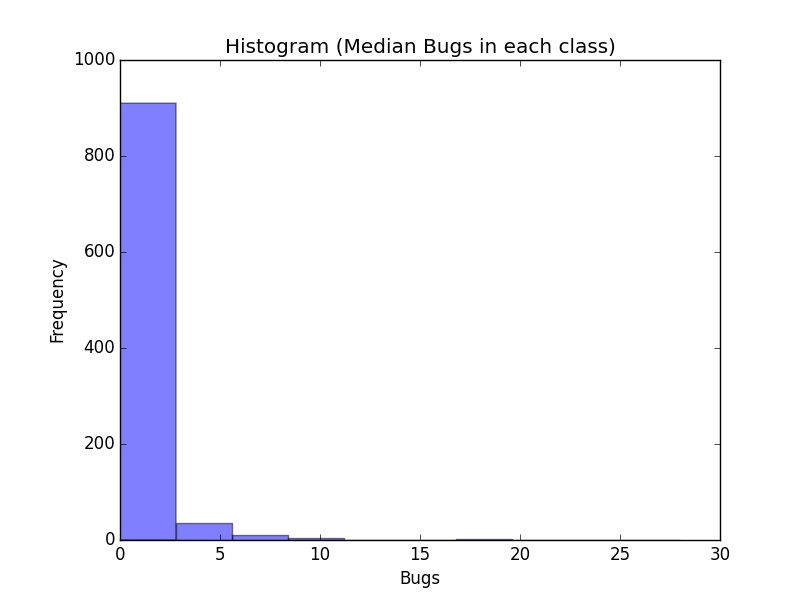
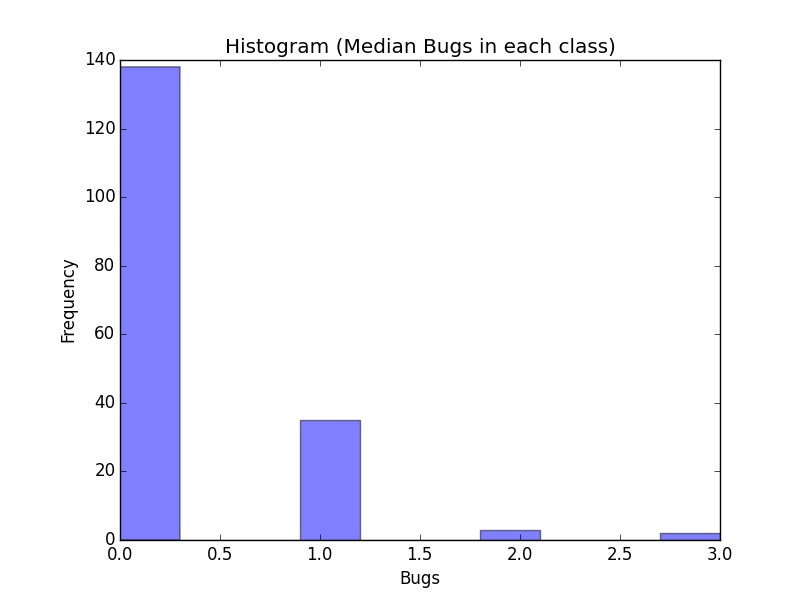
Update

diff --git a/Defects/Planning.py b/Defects/Planning.py
@@ -3,9 +3,11 @@ from __future__ import print_function
 from pdb import set_trace
 from random import uniform, randint
 
-from _imports import *
+from hist import *
+import sk
 from sklearn.ensemble import RandomForestClassifier
 
+from _imports import *
 from contrastset import *
 from dectree import *
 import makeAmodel as mam
@@ -13,29 +15,33 @@ from methods1 import *
 import numpy as np
 import pandas as pd
 
+
 #===============================================================================
 # PLANNING PHASE: 1. Decision Trees, 2. Contrast Sets
 #===============================================================================
-def _treatments(train_DF = None, test_df = None, verbose = True):
+def _treatments(train = None, test = None, verbose = True):
 
-  if not train_DF or test_df:
-    dir = './Data'
-
-    train, test = explore(dir)
-
-    # Training data
-    train_DF = createTbl(train[1])
-
-    # Testing data
-    test_df = createTbl(test[1])
+#   if not train_DF or test_df:
+#     dir = './Data'
+#
+#     train, test = explore(dir)
+#
+#     # set_trace()
+#     # Training data
+  train_DF = createTbl(train)
+#
+#     # Testing data
+  test_DF = createTbl(test)
 
   # Decision Tree
+
   t = discreteNums(train_DF, map(lambda x: x.cells, train_DF._rows))
+#   set_trace()
   myTree = tdiv(t)
   if verbose: showTdiv(myTree)
 
   # Testing data
-  testCase = test_df._rows
+  testCase = test_DF._rows
 
   def remember(node):
    key = node.f.name
@@ -57,8 +63,8 @@ def _treatments(train_DF = None, test_df = None, verbose = True):
                                                          objectiveScores(node)]
   def getKey():
     keys = {}
-    for i in xrange(len(test_df.headers)):
-      keys.update({test_df.headers[i].name[1:]:i})
+    for i in xrange(len(test_DF.headers)):
+      keys.update({test_DF.headers[i].name[1:]:i})
     return keys
 
   keys = getKey();
@@ -95,7 +101,7 @@ def _treatments(train_DF = None, test_df = None, verbose = True):
 
     newTab.append(newRow.cells)
 
-  updatedTab = clone(test_df, newTab, discrete = True)
+  updatedTab = clone(test_DF, rows = newTab, discrete = True)
   return updatedTab
 #  saveImg(bugs(test_df), num_bins = 50, fname = 'bugsBefore', ext = '.jpg')
 #  set_trace()
@@ -120,43 +126,70 @@ def rforest(train, test):
   test_DF = formatData(test)
   features = train_DF.columns[:-2]
   klass = train_DF[train_DF.columns[-2]];
+  # set_trace()
   clf.fit(train_DF[features], klass)
   preds = clf.predict(test_DF[test_DF.columns[:-2]]).tolist()
   return preds
 
+def withinClass(data):
+  N = len(data)
+  return [(data[:n], [data[n]]) for n in range(1, N)]
+
 def haupt():
   dir = './Data'
-
   from os import walk
-  datas = [Name for _, Name, __ in walk(dir)][0]
+  dataName = [Name for _, Name, __ in walk(dir)][0]
+  numData = len(dataName)  # Number of data
 
-  train, test = explore(dir)
+  one, two = explore(dir)
+  data = [one[i] + two[i] for i in xrange(len(one))];
+  for n in xrange(numData):
+    train = [dat[0] for dat in withinClass(data[n])]
+    test = [dat[1] for dat in withinClass(data[n])]
 
-  # Number of data
-  numData = len(datas)
+    # Training data
+    train_DF = createTbl(train[-1])
 
-  # Training data
-  train_DF = createTbl(train[2])
+    # Testing data
+    test_df = createTbl(test[-1])
 
-  # Testing data
-  test_df = createTbl(test[2])
 
-  # Save a histogram of unmodified bugs
-  saveImg(Bugs(test_df), num_bins = 10, fname = 'bugsBefore', ext = '.jpg')
+    # Save a histogram of unmodified bugs
+    # saveImg(Bugs(test_df), num_bins = 10, fname = 'bugsBefore', ext = '.jpg')
 
-  # Find and apply contrast sets
-  newTab = _treatments(train_DF = train_DF, test_df = test_df, verbose = False)
+    # Find and apply contrast sets
+    newTab = _treatments(train = train[-1], test = test[-1], verbose = False)
 
-  # Use the random forest classifier to predict the number of bugs in the new data.
-  bugs = rforest(train_DF, newTab)
+    # Actual bugs
+    actual = Bugs(test_df)
+    actual = [a for a in actual if not a == 0]
+    actual.insert(0, 'Actual')
 
-  # Save the histogram after applying contrast sets.
-  saveImg(bugs, num_bins = 10, fname = 'bugsAfter', ext = '.jpg')
+#     set_trace()
 
-  # <<DEGUG: Halt Code>>
-  set_trace()
+    # Use the random forest classifier to predict the number of bugs in the raw data.
+    before = rforest(train_DF, test_df)
+    before = [b for b in before if not b == 0]
+    before.insert(0, 'Before')
+
+    # Use the random forest classifier to predict the number of bugs in the new data.
+    after = rforest(train_DF, newTab)
+    after = [a for a in after if not a == 0]
+    after.insert(0, 'After ')
+
+    stat = [before, actual, after]
+
+    print(dataName[n]); print(20 * '=')
+    print('Training: ', train[-1], '\n', 'Test: ', test[-1], '\n')
+    histplot(stat, bins = [1, 5, 10, 20, 50])
+    # sk.rdivDemo(stat)
+    print('\n', '\n')
+    # Save the histogram after applying contrast sets.
+    # saveImg(bugs, num_bins = 10, fname = 'bugsAfter', ext = '.jpg')
+
+    # <<DEGUG: Halt Code>>
+    # set_trace()
 
 if __name__ == '__main__':
   haupt()
-
 

diff --git a/Defects/rf_test.py b/Defects/rf_test.py
@@ -17,12 +17,12 @@ import pandas as pd
 sys.path.append(os.environ['HOME'] + '/git/axe/axe')
 sys.path.insert(0, os.getcwd() + '/_imports');
 import sk;  # @UnresolvedImport
-#whereParams, _ = base._de()
+# whereParams, _ = base._de()
 def get_headers(data):
-  #set_trace()
-  data=pd.read_csv(data[0], header = 0);
+  # set_trace()
+  data = pd.read_csv(data[0], header = 0);
   return data.columns[3:].get_values().tolist()
-  
+
 def createDF(data):
   makeaModel = makeAModel()
   _r = []
@@ -39,44 +39,44 @@ def createDF(data):
       tmp.append('Class_' + str(id(k) % 1000))
       j.__dict__.update({'cells': tmp})
       Rows.append(j.cells)
-  return pd.DataFrame(Rows, columns = get_headers(data)+['klass'])
+  return pd.DataFrame(Rows, columns = get_headers(data) + ['klass'])
 
 def haupt():
   train, test = explore('./Data')
-  clf = RandomForestClassifier(n_estimators=100, n_jobs = 2)
+  clf = RandomForestClassifier(n_estimators = 100, n_jobs = 2)
   """
   Cluster using FASTMAP
   """
   # Training data
   train_DF = createDF(train[1])
-  
+
   # Testing data
   test_df = createDF(test[1])
-  set_trace()
+  # set_trace()
   features = train_DF.columns[3:-2]
   klass = train_DF[train_DF.columns[-1]];
   clf.fit(train_DF[features], klass)
   preds = clf.predict(test_df[features]).tolist()
   # print preds
-  
+
 #   def isdefective(data):
   label = set(train_DF.columns[-1]);
-  _id =  list(set(train_DF[train_DF.columns[-1]]))
-  dfct = {lbl: str(np.mean(list(train_DF[train_DF['klass']==lbl]['$<bug']))>= 0.3) \
+  _id = list(set(train_DF[train_DF.columns[-1]]))
+  dfct = {lbl: str(np.mean(list(train_DF[train_DF['klass'] == lbl]['$<bug'])) >= 0.3) \
              for lbl in _id}
-    #print label
+    # print label
   predictions = [dfct[i] for i in preds]
-  actuals = [str(not i==0) for i in test_df[test_df.columns[-2]].tolist()]
+  actuals = [str(not i == 0) for i in test_df[test_df.columns[-2]].tolist()]
   return _runAbcd(train = actuals, test = predictions, verbose = False)
-  #set_trace()
-  
-  
+  # set_trace()
+
+
 def run():
- G=[]
+ G = []
  for _ in xrange(1):
   G.append(haupt())
  G.insert(0, 'RF  ')
- #print base.main()+[G]
- sk.rdivDemo(base.main()+[G])
-
+ # print base.main()+[G]
+ sk.rdivDemo(base.main() + [G])
+ set_trace()
 run()

diff --git a/Defects/_imports/where2.py b/Defects/_imports/where2.py
@@ -40,7 +40,7 @@ def pairs(lst):
       yield last, i
 
 def somepairs(m, data):
-  reps = 1; cmax = -10e32;
+  reps = 10; cmax = -10e32;
   for _ in xrange(reps):
     one = any(data);
     two = furthest(m, one, data)
@@ -51,7 +51,7 @@ def somepairs(m, data):
       east, west = two, three
   return west, east
 
-      
+
 def fastmap(m, data):
   "Divide data into two using distance to two distant items."
   west, east = somepairs(m, data)

diff --git a/Defects/methods1.py b/Defects/methods1.py
@@ -54,7 +54,7 @@ def saveImg(x, num_bins = 10, fname = None, ext = None):
  plt.savefig(fname + ext)
  plt.close()
 
-def saveImg(x, num_bins = 10, fname = None, ext = None):
+def creatHist(x, num_bins = 10, fname = None, ext = None):
  fname = 'Untitled' if not fname else fname
  ext = '.jpg' if not ext else ext
  n, bins, patches = plt.hist(x, num_bins, normed = False,
